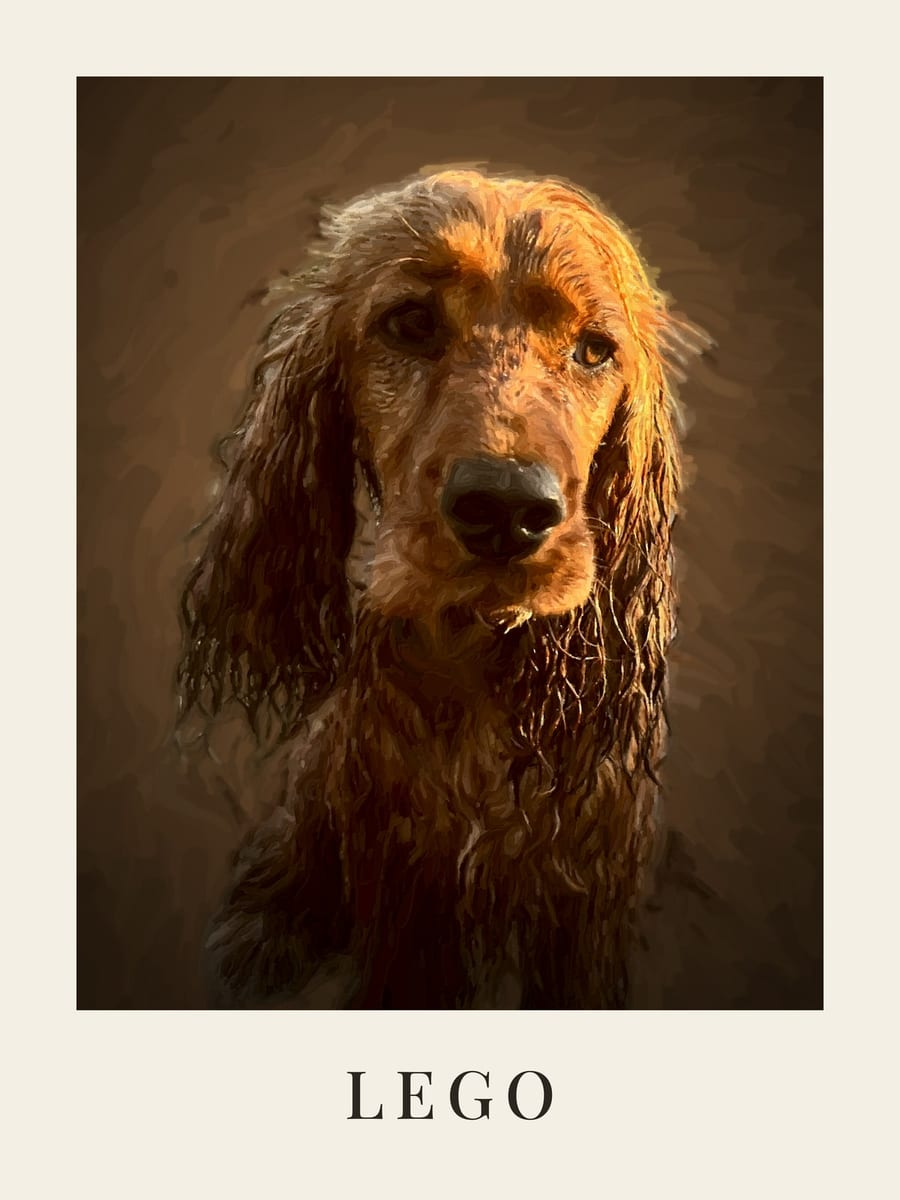
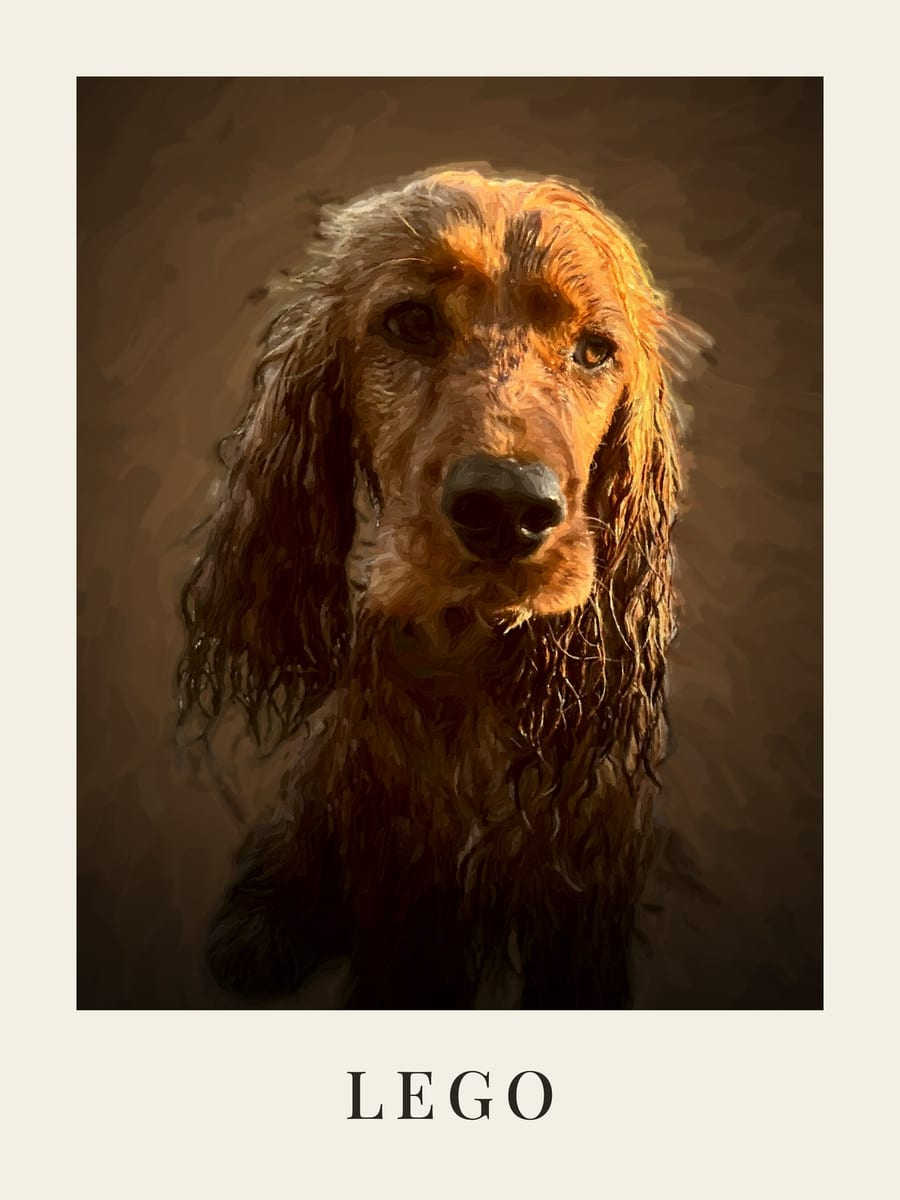
Three real examples: Lego in oil, watercolour and screen print
- scripts/vietinis/akvarele.py: transparent washes, pigment pooling at
  wash edges, granulation, photo detail kept around eyes and nose, the
  wash thinning out at the bottom
- scripts/vietinis/grafika.py: five fixed inks, speck-free shapes, a flat
  ground, slight misregistration, mid ink on thin hair tips
- Oil: the chest sinks into shadow (chiaroscuro)
- Home page shows all three; style choices show the real dog in each style

Claude-Session: https://claude.ai/code/session_01UCUSKhpSLerF4seEvYFAdx

diff --git a/portretai/app/globals.css b/portretai/app/globals.css
@@ -1456,3 +1456,14 @@ main:has(> .closing:last-child) + .site-footer {
   text-transform: none;
   border-radius: 1cqw;
 }
+
+/* Style swatches: the same real dog (Lego) in each style. */
+.style-chip--aliejus {
[1 lines of base64/hex data omitted]
+}
+.style-chip--akvarele {
[1 lines of base64/hex data omitted]
+}
+.style-chip--grafika {
[1 lines of base64/hex data omitted]
+}

diff --git a/portretai/scripts/vietinis/akvarele.py b/portretai/scripts/vietinis/akvarele.py
@@ -1,0 +1,145 @@
+"""Watercolour portrait: flat transparent washes, pigment pooling at wash
+edges, paper granulation, dry-brush darks for eyes, nose and curls, and a
+hard dried edge where the wash ends. No AI model.
+Usage: python3 akvarele.py photo.jpg mask.png out.png x0 y0 width [cx,cy,rx,ry ...]
+Output: 3000 x 3750 px, for "portretas kurti --paruostas-portretas".
+Needs: pip install opencv-contrib-python-headless numpy
+"""
+import sys, cv2, numpy as np
+
+src, maskf, outf = sys.argv[1:4]
+x0, y0, cw = map(int, sys.argv[4:7])
+ch = int(round(cw * 1.25))
+W, H = 3000, 3750
+rng = np.random.default_rng(9)
+
+img = cv2.imread(src)
+mask = cv2.imread(maskf, cv2.IMREAD_GRAYSCALE).astype(np.float32) / 255.0
+for spec in [a for a in sys.argv[7:] if a.count(',') == 3]:
+    cx, cy, rx, ry = map(int, spec.split(','))
+    hole = np.zeros(img.shape[:2], np.uint8)
+    cv2.ellipse(hole, (cx, cy), (rx, ry), 0, 0, 360, 255, -1)
+    img = cv2.inpaint(img, hole, 9, cv2.INPAINT_TELEA)
+    soft = cv2.GaussianBlur(hole.astype(np.float32) / 255.0, (0, 0), max(rx, ry) / 3)[..., None]
+    img = np.clip(img.astype(np.float32) * (1 - 0.45 * soft) + np.array([40, 62, 96], np.float32) * (0.45 * soft), 0, 255).astype(np.uint8)
+
+def crop_pad(a, fill):
+    h, w = a.shape[:2]
+    c = np.full((ch, cw) + a.shape[2:], fill, a.dtype)
+    sx0, sy0, sx1, sy1 = max(0, x0), max(0, y0), min(w, x0 + cw), min(h, y0 + ch)
+    c[sy0 - y0:sy1 - y0, sx0 - x0:sx1 - x0] = a[sy0:sy1, sx0:sx1]
+    return c
+
+def noise(scale, octaves, seed):
+    r = np.random.default_rng(seed)
+    acc = np.zeros((H, W), np.float32); amp = 1.0; tot = 0
+    for o in range(octaves):
+        s = max(2, int(scale / (2 ** o)))
+        acc += amp * cv2.resize(r.random((H // s + 2, W // s + 2)).astype(np.float32), (W, H), interpolation=cv2.INTER_CUBIC)
+        tot += amp; amp *= 0.5
+    return np.clip(acc / tot, 0, 1)
+
+photo = cv2.resize(crop_pad(img, 0), (W, H), interpolation=cv2.INTER_LANCZOS4).astype(np.float32)
+alpha = np.clip(cv2.resize(crop_pad(mask, 0), (W, H), interpolation=cv2.INTER_CUBIC), 0, 1)
+
+# Sand-coloured edge pixels take the nearest solid fur colour; cold sky
+# reflections in wet hair are warmed.
+solid = (alpha > 0.92).astype(np.float32)
+inner = cv2.GaussianBlur(photo * solid[..., None], (0, 0), 14) / np.maximum(cv2.GaussianBlur(solid, (0, 0), 14)[..., None], 1e-3)
+t = np.clip((alpha - 0.55) / 0.4, 0, 1)[..., None]
+fur = photo * t + inner * (1 - t)
+lab = cv2.cvtColor(np.clip(fur, 0, 255).astype(np.uint8), cv2.COLOR_BGR2LAB).astype(np.float32)
+shade = np.clip(1 - lab[..., 0] / 140.0, 0, 1)
+lab[..., 1] = np.clip(128 + (lab[..., 1] - 128) * 1.08 + 3 * shade, 130, 255)
+lab[..., 2] = np.maximum(128 + (lab[..., 2] - 128) * 1.10 + 10 * shade, 140)
+fur = cv2.cvtColor(np.clip(lab, 0, 255).astype(np.uint8), cv2.COLOR_LAB2BGR).astype(np.float32)
+
+# 1. Washes: mean-shift merges the coat into a few flat transparent areas.
+S = 3
+small = cv2.resize(np.clip(fur, 0, 255).astype(np.uint8), (W // S, H // S), interpolation=cv2.INTER_AREA)
+ms = cv2.pyrMeanShiftFiltering(small, 10, 26, maxLevel=2)
+ms = cv2.pyrMeanShiftFiltering(ms, 8, 20, maxLevel=1)
+wash = cv2.resize(ms, (W, H), interpolation=cv2.INTER_CUBIC).astype(np.float32)
+wash = cv2.GaussianBlur(wash, (0, 0), 2.5)
+
+# Watercolour is transparent: work in pigment density, lighter than the photo.
+paper_c = np.array([246, 250, 252], np.float32)
+D = -np.log(np.clip(wash / paper_c, 0.02, 1.0))
+D *= 0.78
+# 2. Uneven flow of pigment inside each wash.
+D *= (0.86 + 0.28 * noise(220, 4, 3))[..., None]
+# 3. Pigment pools along wash edges: thin darker rims.
+gl = cv2.cvtColor(np.clip(wash, 0, 255).astype(np.uint8), cv2.COLOR_BGR2GRAY).astype(np.float32)
+edge = cv2.magnitude(cv2.Sobel(gl, cv2.CV_32F, 1, 0, ksize=3), cv2.Sobel(gl, cv2.CV_32F, 0, 1, ksize=3))
+edge = np.clip(cv2.GaussianBlur(edge, (0, 0), 1.6) / 40.0, 0, 1)
+D *= (1 + 0.38 * edge)[..., None]
+# 4. Granulation: pigment settles in the paper's valleys, most in the darks.
+gran = cv2.GaussianBlur(rng.normal(0, 1, (H, W)).astype(np.float32), (0, 0), 2.4)
+gran = gran / (gran.std() + 1e-6)
+D *= (1 + 0.06 * gran * np.clip(D.mean(-1) / 1.2, 0, 1))[..., None]
+yy_, xx_ = np.mgrid[0:H, 0:W].astype(np.float32)
+# 5. Dry brush: the darkest fine detail of the photo (eyes, nose, curls).
+g = cv2.cvtColor(np.clip(photo, 0, 255).astype(np.uint8), cv2.COLOR_BGR2GRAY).astype(np.float32)
+det = np.clip(cv2.GaussianBlur(g, (0, 0), 5) - g, 0, 80) / 80.0
+det = det * np.clip((150 - g) / 110, 0, 1)
+dark_pig = -np.log(np.array([60, 72, 98], np.float32) / paper_c)
+D = D + det[..., None] * dark_pig * 0.9
+# Eyes, nose and curls stay precise: wherever the photo has fine structure,
+# the painting follows the photo instead of the flat wash.
+Dp = -np.log(np.clip(fur / paper_c, 0.02, 1.0)) * 0.86
+loc = np.abs(g - cv2.GaussianBlur(g, (0, 0), 4))
+loc = cv2.GaussianBlur(loc, (0, 0), 6)
+fine = np.clip((loc - 3.0) / 7.0, 0, 1)
+# Eyes sit in the upper third of the bust: protect them most.
+face = np.exp(-(((xx_ - 0.47 * W) / (0.24 * W)) ** 2 + ((yy_ - 0.30 * H) / (0.14 * H)) ** 2))
+fine = np.clip(fine * (0.55 + 0.45 * face) + 0.35 * face * np.clip((120 - g) / 80, 0, 1), 0, 0.85)
+fine = cv2.GaussianBlur(fine.astype(np.float32), (0, 0), 2)
+D = D * (1 - fine[..., None]) + Dp * fine[..., None]
+color = paper_c * np.exp(-D)
+
+# 6. Shape: the head is crisp; the wash ends in a hard, irregular dried edge
+# below the chest, with a darker line where the water stopped.
+yy, xx = np.mgrid[0:H, 0:W].astype(np.float32)
+a = cv2.GaussianBlur(alpha, (0, 0), 1.5)
+# Fill small holes inside the figure, so the wash is continuous.
+disk = cv2.getStructuringElement(cv2.MORPH_ELLIPSE, (95, 95))
+closed = cv2.morphologyEx((alpha > 0.5).astype(np.uint8), cv2.MORPH_CLOSE, disk)
+# Only true holes, well inside the outline: the curly silhouette stays.
+deep = (cv2.distanceTransform(closed, cv2.DIST_L2, 5) > 40).astype(np.float32)
+a = np.maximum(a, cv2.GaussianBlur(deep, (0, 0), 6))
+# The painting ends below the chest: pigment thins out over a band, and the
+# last stroke breaks up like a dry brush dragged over rough paper.
+lim = 0.72 * H - 0.035 * H * ((xx - W / 2) / (W / 2)) ** 2
+big_n = (noise(420, 3, 21) - 0.5) * 0.09 * H
+rough = (noise(18, 2, 23) - 0.5) * 0.012 * H
+edge_line = lim + big_n + rough
+A = np.clip(a * np.clip((edge_line - yy) / 3.0, 0, 1), 0, 1)
+thin = np.clip((edge_line - yy) / (0.20 * H), 0, 1) ** 0.9
+D_end = D * (0.22 + 0.78 * thin[..., None])
+color = paper_c * np.exp(-D_end)
+canvas = np.ones((H, W, 3), np.float32) * paper_c
+canvas = canvas * (1 - A[..., None]) + color * A[..., None]
+# Where a wash dried, its edge holds a little more pigment.
+rim = np.clip(A - cv2.erode(A, np.ones((7, 7), np.uint8)), 0, 1) * (yy > 0.5 * H)
+canvas *= (1 - 0.14 * rim)[..., None]
+# A faint warm bloom behind the head, the way a painter tones the paper.
+halo = np.exp(-(((xx - 0.47 * W) / (0.40 * W)) ** 2 + ((yy - 0.32 * H) / (0.34 * H)) ** 2)) * (1 - A) * 0.10
+halo *= 0.6 + 0.8 * noise(160, 3, 41)
+canvas = canvas * (1 - halo[..., None]) + np.array([150, 190, 225], np.float32) * halo[..., None]
+# A few splashes near the shoulders.
+for _ in range(0):  # splashes read as dust at print size
+    cx = int(rng.uniform(0.15, 0.85) * W); cy = int(rng.uniform(0.55, 0.78) * H)
+    if alpha[cy, cx] > 0.1: continue
+    r = int(rng.uniform(4, 18))
+    layer = np.zeros((H, W), np.float32)
+    cv2.circle(layer, (cx, cy), r, 1.0, -1, cv2.LINE_AA)
+    layer = cv2.GaussianBlur(layer, (0, 0), 1.2) * rng.uniform(0.3, 0.6)
+    col = paper_c * np.exp(-D[int(0.45 * H), int(0.5 * W)] * 0.7)
+    canvas = canvas * (1 - layer[..., None]) + col * layer[..., None]
+# Cold-pressed paper.
+tooth = cv2.GaussianBlur(rng.normal(0, 1, (H, W)).astype(np.float32), (0, 0), 1.8)
+canvas *= (1 + 0.018 * tooth / (tooth.std() + 1e-6))[..., None]
+out = np.clip(canvas, 0, 255).astype(np.uint8)
+cv2.imwrite(outf, out, [cv2.IMWRITE_PNG_COMPRESSION, 3])
+cv2.imwrite(outf.replace('.png', '-small.jpg'), cv2.resize(out, (W // 4, H // 4), interpolation=cv2.INTER_AREA), [cv2.IMWRITE_JPEG_QUALITY, 90])
+cv2.imwrite(outf.replace('.png', '-akys.jpg'), out[820:1820, 900:2100], [cv2.IMWRITE_JPEG_QUALITY, 90])

diff --git a/portretai/scripts/vietinis/grafika.py b/portretai/scripts/vietinis/grafika.py
@@ -1,0 +1,100 @@
+"""Flat-colour screen-print portrait: a fixed palette of five inks, clean
+shapes without specks, a flat ground, paper grain and slight misregistration.
+Usage: python3 grafika.py photo.jpg mask.png out.png x0 y0 width [cx,cy,rx,ry ...]
+Output: 3000 x 3750 px, for "portretas kurti --paruostas-portretas".
+Needs: pip install opencv-contrib-python-headless numpy
+"""
+import sys, cv2, numpy as np
+
+src, maskf, outf = sys.argv[1:4]
+x0, y0, cw = map(int, sys.argv[4:7])
+ch = int(round(cw * 1.25))
+W, H = 3000, 3750
+rng = np.random.default_rng(5)
+
+img = cv2.imread(src)
+mask = cv2.imread(maskf, cv2.IMREAD_GRAYSCALE).astype(np.float32) / 255.0
+for spec in [a for a in sys.argv[7:] if a.count(',') == 3]:
+    cx, cy, rx, ry = map(int, spec.split(','))
+    hole = np.zeros(img.shape[:2], np.uint8)
+    cv2.ellipse(hole, (cx, cy), (rx, ry), 0, 0, 360, 255, -1)
+    img = cv2.inpaint(img, hole, 9, cv2.INPAINT_TELEA)
+    soft = cv2.GaussianBlur(hole.astype(np.float32) / 255.0, (0, 0), max(rx, ry) / 3)[..., None]
+    img = np.clip(img.astype(np.float32) * (1 - 0.55 * soft) + np.array([22, 38, 62], np.float32) * (0.55 * soft), 0, 255).astype(np.uint8)
+
+def crop_pad(a, fill):
+    h, w = a.shape[:2]
+    c = np.full((ch, cw) + a.shape[2:], fill, a.dtype)
+    sx0, sy0, sx1, sy1 = max(0, x0), max(0, y0), min(w, x0 + cw), min(h, y0 + ch)
+    c[sy0 - y0:sy1 - y0, sx0 - x0:sx1 - x0] = a[sy0:sy1, sx0:sx1]
+    return c
+
+S = 3  # work at 1/3 size for the shapes
+w, h = W // S, H // S
+photo = cv2.resize(crop_pad(img, 0), (w, h), interpolation=cv2.INTER_AREA)
+alpha = np.clip(cv2.resize(crop_pad(mask, 0), (w, h), interpolation=cv2.INTER_AREA), 0, 1)
+
+# Luminance only: the palette, not the photo, decides the colours.
+g = cv2.cvtColor(photo, cv2.COLOR_BGR2LAB)[..., 0].astype(np.float32)
+solid = (alpha > 0.9).astype(np.float32)
+fill = cv2.GaussianBlur(g * solid, (0, 0), 6) / np.maximum(cv2.GaussianBlur(solid, (0, 0), 6), 1e-3)
+g = np.where(alpha > 0.6, g, fill)
+for _ in range(3):
+    g = cv2.bilateralFilter(g, 9, 18, 7)
+# Five tone bands by quantiles of the animal, so every ink is used.
+vals = g[alpha > 0.6]
+edges = np.quantile(vals, [0.16, 0.38, 0.62, 0.86])
+band = np.digitize(g, edges).astype(np.uint8)          # 0 darkest .. 4 lightest
+band = cv2.medianBlur(band, 9)
+# Remove specks: any patch under 0.06 % of the picture joins its neighbour.
+min_area = int(0.0006 * w * h)
+for b in range(5):
+    n, lab, st, _ = cv2.connectedComponentsWithStats((band == b).astype(np.uint8), 8)
+    for i in range(1, n):
+        if st[i, cv2.CC_STAT_AREA] < min_area:
+            m = lab == i
+            ring = cv2.dilate(m.astype(np.uint8), np.ones((3, 3), np.uint8)).astype(bool) & ~m
+            if ring.any():
+                band[m] = np.bincount(band[ring], minlength=5).argmax()
+
+# Clean curves at print size: upscale each band as a smooth field.
+fields = np.stack([cv2.GaussianBlur(cv2.resize((band == b).astype(np.float32), (W, H), interpolation=cv2.INTER_CUBIC), (0, 0), 5) for b in range(5)], -1)
+big = fields.argmax(-1)
+INKS = np.array([  # BGR: deep umber, dark rust, rust, burnt orange, light amber
+    [22, 24, 38], [28, 46, 100], [34, 78, 160], [62, 128, 214], [130, 190, 240]], np.float32)
+flat = INKS[big]
+
+A = cv2.resize(alpha, (W, H), interpolation=cv2.INTER_CUBIC)
+A = cv2.GaussianBlur(A, (0, 0), 4)
+A = np.clip((A - 0.5) * 10 + 0.5, 0, 1)
+# Drop stray hairs that print as loose specks.
+n, lab, st, _ = cv2.connectedComponentsWithStats((A > 0.5).astype(np.uint8), 8)
+keep = np.zeros(n, bool)
+keep[1:] = st[1:, cv2.CC_STAT_AREA] >= 0.003 * W * H
+A *= keep[lab].astype(np.float32)
+# Thin hair tips print in a mid ink: a black tip on a pale strand reads as a speck.
+opened = cv2.morphologyEx((A > 0.5).astype(np.uint8), cv2.MORPH_OPEN, cv2.getStructuringElement(cv2.MORPH_ELLIPSE, (25, 25)))
+thin_part = (A > 0.5) & (opened == 0)
+big = np.where(thin_part & (big < 2), 2, big)
+flat = INKS[big]
+yy, xx = np.mgrid[0:H, 0:W].astype(np.float32)
+arc = 0.83 * H - 0.05 * H * ((xx - W / 2) / (W / 2)) ** 2
+A *= np.clip((arc - yy) / 2.5, 0, 1)
+
+ground = np.array([200, 205, 196], np.float32)   # BGR of a soft sage ground, #c4cdc8
+paper = np.array([228, 238, 243], np.float32)    # BGR of #f3eee4
+canvas = np.ones((H, W, 3), np.float32) * paper
+canvas[:] = ground
+# Darkest ink printed slightly out of register, as on a real screen print.
+shift = np.float32([[1, 0, 5], [0, 1, 4]])
+dark = (big == 0).astype(np.float32) * A
+dark_off = cv2.warpAffine(dark, shift, (W, H))
+canvas = canvas * (1 - A[..., None]) + flat * A[..., None]
+canvas = canvas * (1 - 0.25 * np.clip(dark_off - dark, 0, 1)[..., None]) + INKS[0] * (0.25 * np.clip(dark_off - dark, 0, 1)[..., None])
+# Uneven ink and paper tooth.
+n1 = cv2.resize(rng.random((H // 40, W // 40)).astype(np.float32), (W, H), interpolation=cv2.INTER_CUBIC)
+grain = cv2.GaussianBlur(rng.normal(0, 1, (H, W)).astype(np.float32), (0, 0), 1.1)
+canvas *= (1 + 0.018 * (n1 - 0.5) + 0.02 * grain / (grain.std() + 1e-6))[..., None]
+out = np.clip(canvas, 0, 255).astype(np.uint8)
+cv2.imwrite(outf, out, [cv2.IMWRITE_PNG_COMPRESSION, 3])
+cv2.imwrite(outf.replace('.png', '-small.jpg'), cv2.resize(out, (W // 4, H // 4), interpolation=cv2.INTER_AREA), [cv2.IMWRITE_JPEG_QUALITY, 90])

diff --git a/portretai/scripts/vietinis/tapyba.py b/portretai/scripts/vietinis/tapyba.py
@@ -81,7 +81,8 @@ bg = np.array([18, 25, 34], np.float32) + glow[..., None] * np.array([46, 70, 98
 low = cv2.resize(rng.normal(0, 1, (H // 60, W // 60)).astype(np.float32), (W, H), interpolation=cv2.INTER_CUBIC)
 bg *= (1 + 0.04 * low)[..., None]
 # Light from the upper left; the lower body sinks into shadow.
-light = 1.05 - 0.20 * np.clip((xx / W - 0.58) / 0.42, 0, 1) - 0.62 * np.clip((yy / H - 0.66) / 0.34, 0, 1) ** 1.4
+# Chiaroscuro: the head is lit, the chest sinks into the dark ground.
+light = 1.05 - 0.20 * np.clip((xx / W - 0.58) / 0.42, 0, 1) - 0.80 * np.clip((yy / H - 0.56) / 0.40, 0, 1) ** 1.25
 target = bg * (1 - a[..., None]) + fur * light[..., None] * a[..., None]
 target = np.clip(target, 0, 255)
 
@@ -189,6 +190,7 @@ out = out + (out - cv2.GaussianBlur(out, (0, 0), 2.2)) * 0.55 * fig_w
 weave = np.sin(xx * (2 * np.pi / 10.0)) + np.sin(yy * (2 * np.pi / 10.0))
 out *= (1 + 0.010 * weave)[..., None]
 vig = 1 - 0.32 * np.clip((np.hypot((xx - W / 2) / (W / 2), (yy - 0.45 * H) / (H / 2)) - 0.72) / 0.6, 0, 1)
+vig *= 1 - 0.30 * np.clip((yy / H - 0.78) / 0.22, 0, 1)
 out *= vig[..., None]
 out = np.clip(out, 0, 255).astype(np.uint8)
 cv2.imwrite(outf, out, [cv2.IMWRITE_PNG_COMPRESSION, 3])

diff --git a/portretai/README.md b/portretai/README.md
@@ -170,18 +170,22 @@ node bin/portretas.js kurti --nuotrauka pavyzdziai/reksas.jpg --vardas "Reksas" 
 
 Rezultatas atsiranda aplanke `isvestis/<vardas>-<stilius>-<dydis>/`: `spauda.pdf`, `perziura.jpg`, `plakatas.jpg`, `siena.jpg`, `portretas-modelio.png`. Į svetainę kelk `portretas-modelio.png`, ne plakatą.
 
-### Aliejinis portretas be vaizdo modelio
+### Portretas be vaizdo modelio
 
-Kai nėra fal.ai rakto, „Aliejaus“ stiliaus portretą galima padaryti vietoje, be DI vaizdo modelio: programa iškerpa gyvūną iš fono ir perpiešia nuotrauką teptuko potėpiais pagal kailio kryptį. Reikia „Python“ 3 ir vieno 170 MB modelio failo fonui iškirpti (nuoroda faile `scripts/vietinis/iskirpti.py`).
+Kai nėra fal.ai rakto, visus tris stilius galima padaryti vietoje, be DI vaizdo modelio. Programa iškerpa gyvūną iš fono ir perpiešia nuotrauką: aliejų teptuko potėpiais pagal kailio kryptį, akvarelę skaidriais užliejimais, grafiką penkiais šilkografijos dažais. Reikia „Python“ 3 ir vieno 170 MB modelio failo fonui iškirpti (nuoroda faile `scripts/vietinis/iskirpti.py`).
 
 ```
 pip install opencv-contrib-python-headless numpy onnxruntime
 python3 scripts/vietinis/iskirpti.py nuotrauka.jpg isnet-general-use.onnx kauke.png
-python3 scripts/vietinis/tapyba.py nuotrauka.jpg kauke.png portretas.png 130 150 1060 655,975,74,64
-node bin/portretas.js kurti --nuotrauka nuotrauka.jpg --paruostas-portretas portretas.png --vardas "Lego" --stilius aliejus --dydis 30x40
+python3 scripts/vietinis/tapyba.py   nuotrauka.jpg kauke.png aliejus.png  130 150 1060 655,975,74,64
+python3 scripts/vietinis/akvarele.py nuotrauka.jpg kauke.png akvarele.png 130 150 1060 655,975,74,64
+python3 scripts/vietinis/grafika.py  nuotrauka.jpg kauke.png grafika.png  130 150 1060 655,975,74,64
+node bin/portretas.js kurti --nuotrauka nuotrauka.jpg --paruostas-portretas aliejus.png --vardas "Lego" --stilius aliejus --dydis 30x40
 ```
 
-Trys skaičiai `130 150 1060` yra iškarpos kairysis kraštas, viršus ir plotis nuotraukos pikseliais: galva ir krūtinė turi tilpti į 4:5 stačiakampį. Nebūtinas ketvirtas `655,975,74,64` yra elipsė (centras x,y ir pusašiai), kurią programa užtapo prieš tapydama: pavyzdžiui, antkaklis po smakru, kuris portrete atrodo kaip atvira burna. Tokių elipsių galima nurodyti kelias. Rezultatą visada peržiūrėk iš arti (failas `portretas-akys.jpg`). Kitiems dviem stiliams (akvarelei ir grafikai) vietinis būdas gero rezultato nedavė: jiems reikia vaizdo modelio.
+Trys skaičiai `130 150 1060` yra iškarpos kairysis kraštas, viršus ir plotis nuotraukos pikseliais: galva ir krūtinė turi tilpti į 4:5 stačiakampį. Nebūtinas `655,975,74,64` yra elipsė (centras x,y ir pusašiai), kurią programa užtapo prieš tapydama: pavyzdžiui, antkaklis po smakru, kuris portrete atrodo kaip atvira burna. Tokių elipsių galima nurodyti kelias.
+
+Rezultatą visada peržiūrėk iš arti (failas `*-akys.jpg` šalia rezultato): akys turi būti aiškios, be dėmių. Šie nustatymai suderinti pagal vieną nuotrauką (Lego); su kitomis nuotraukomis gali reikėti kitos iškarpos.
 
 Kitos komandos:
 
